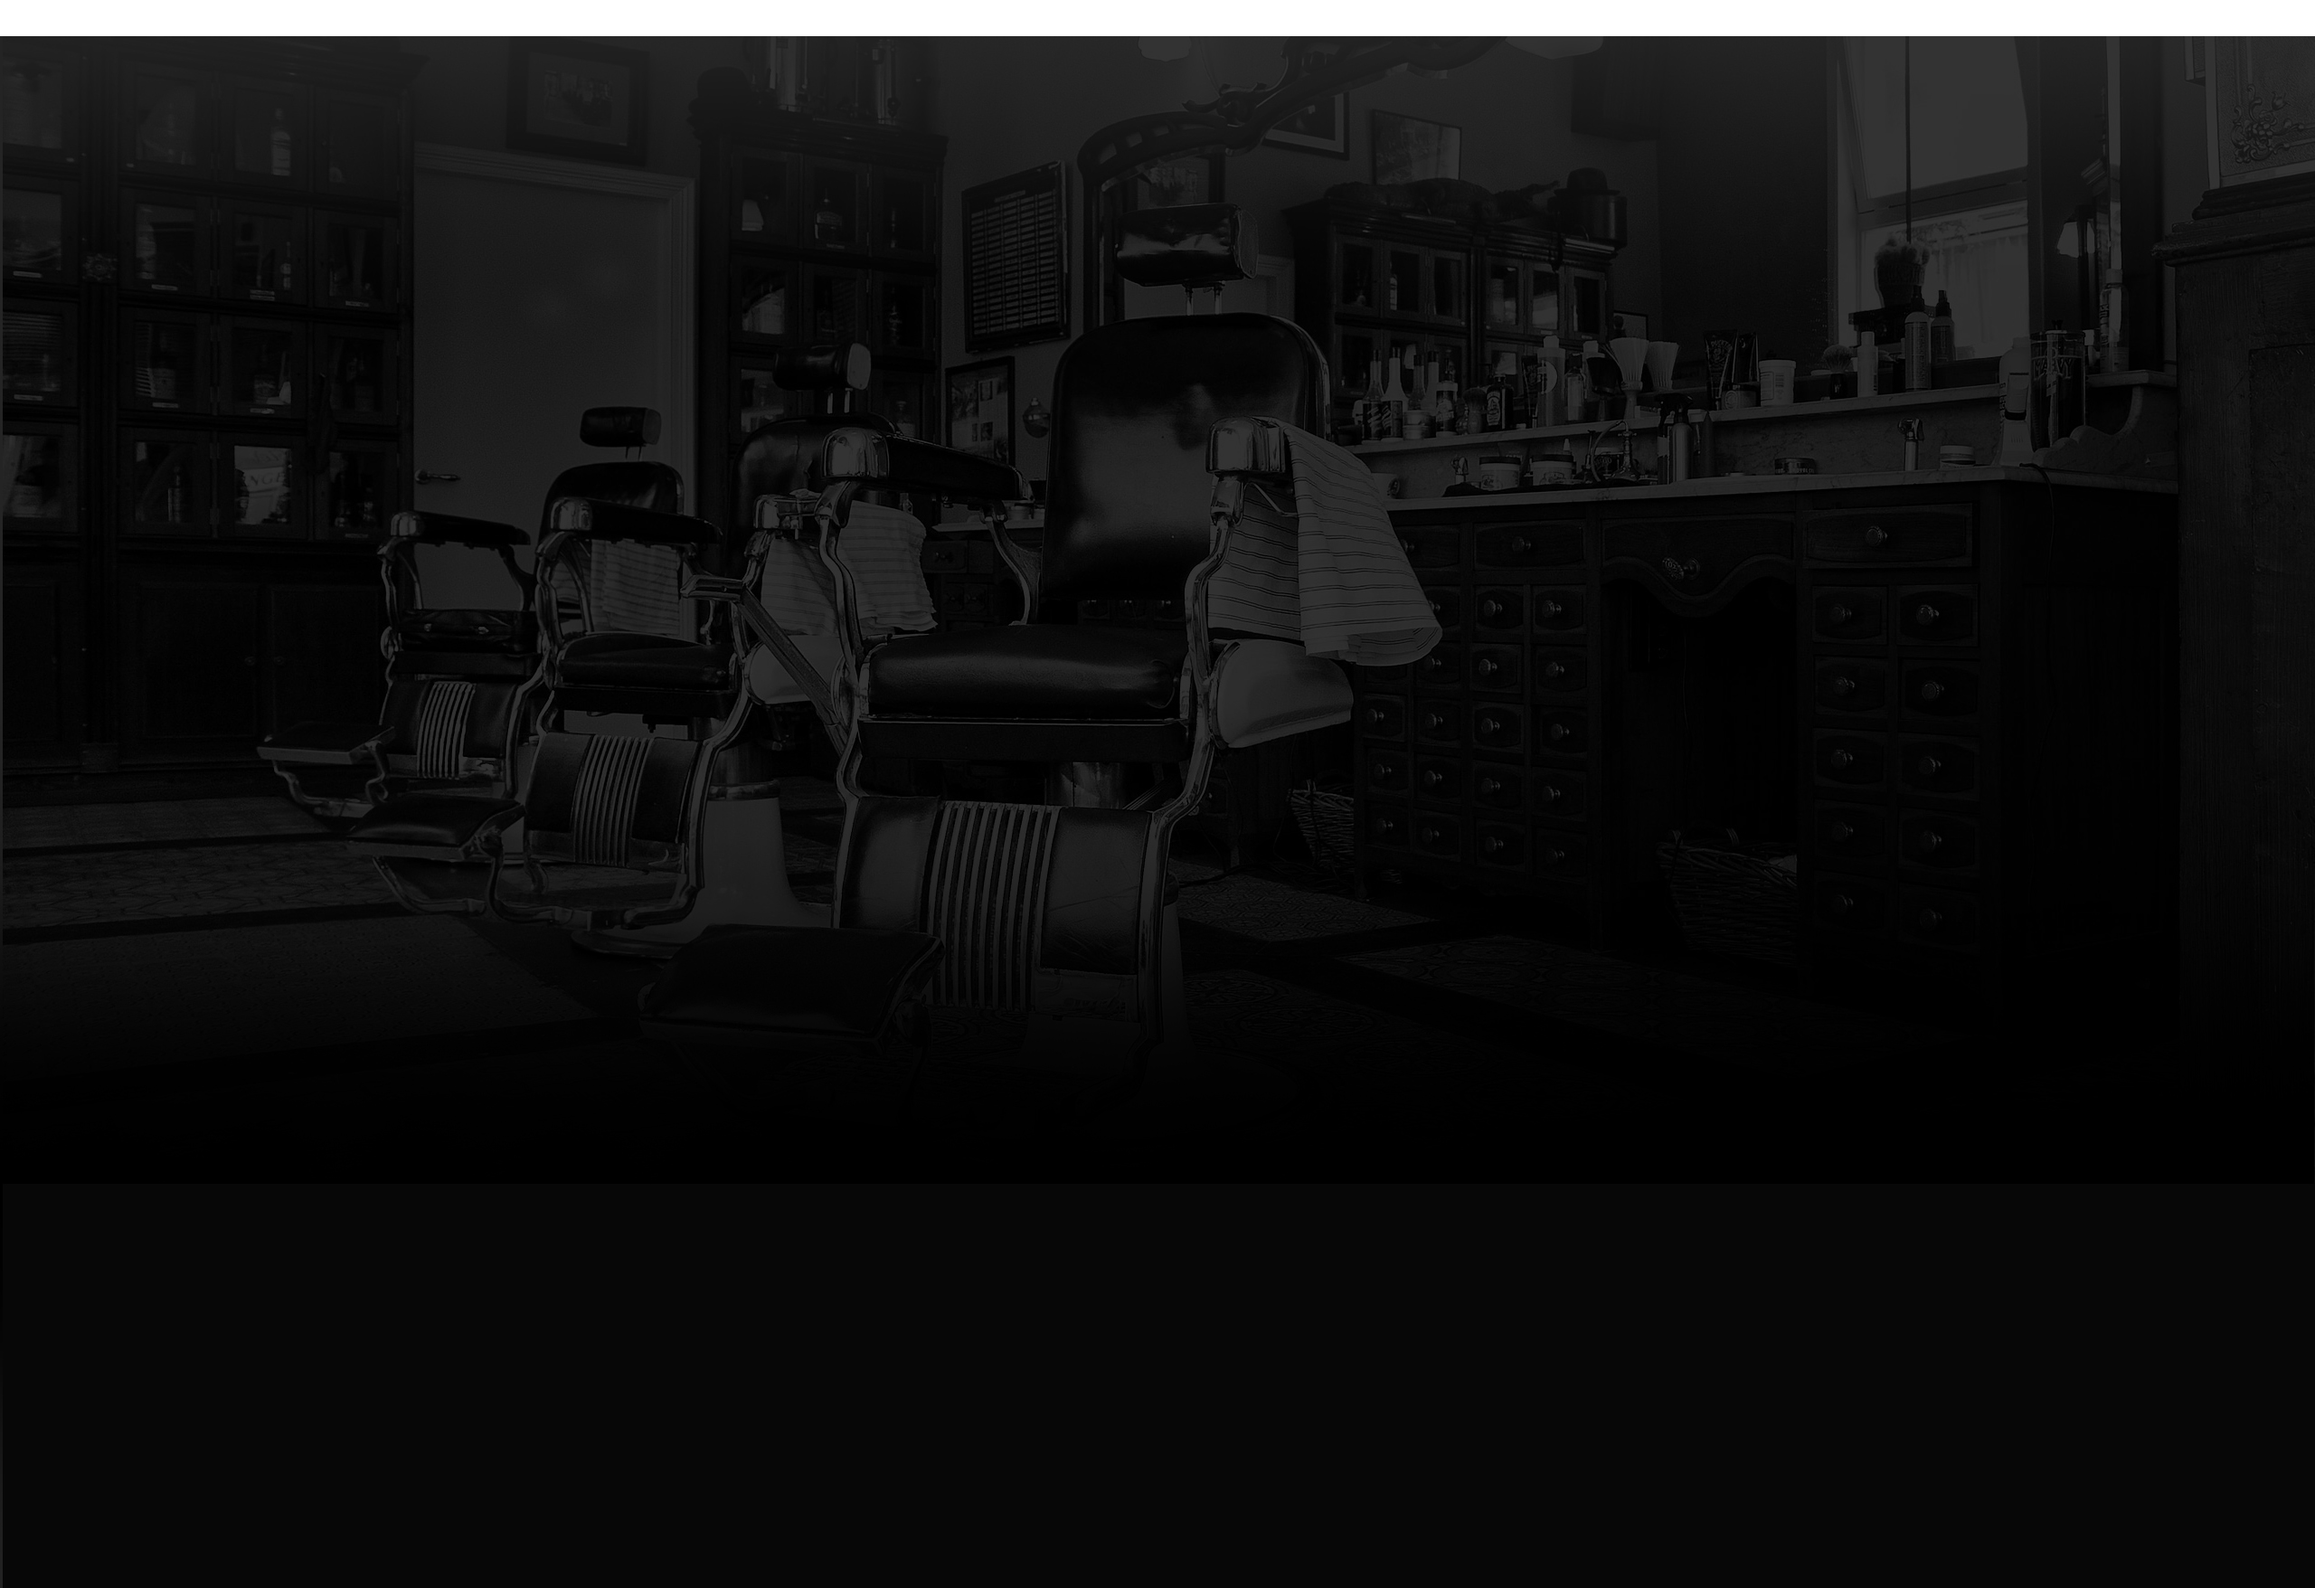
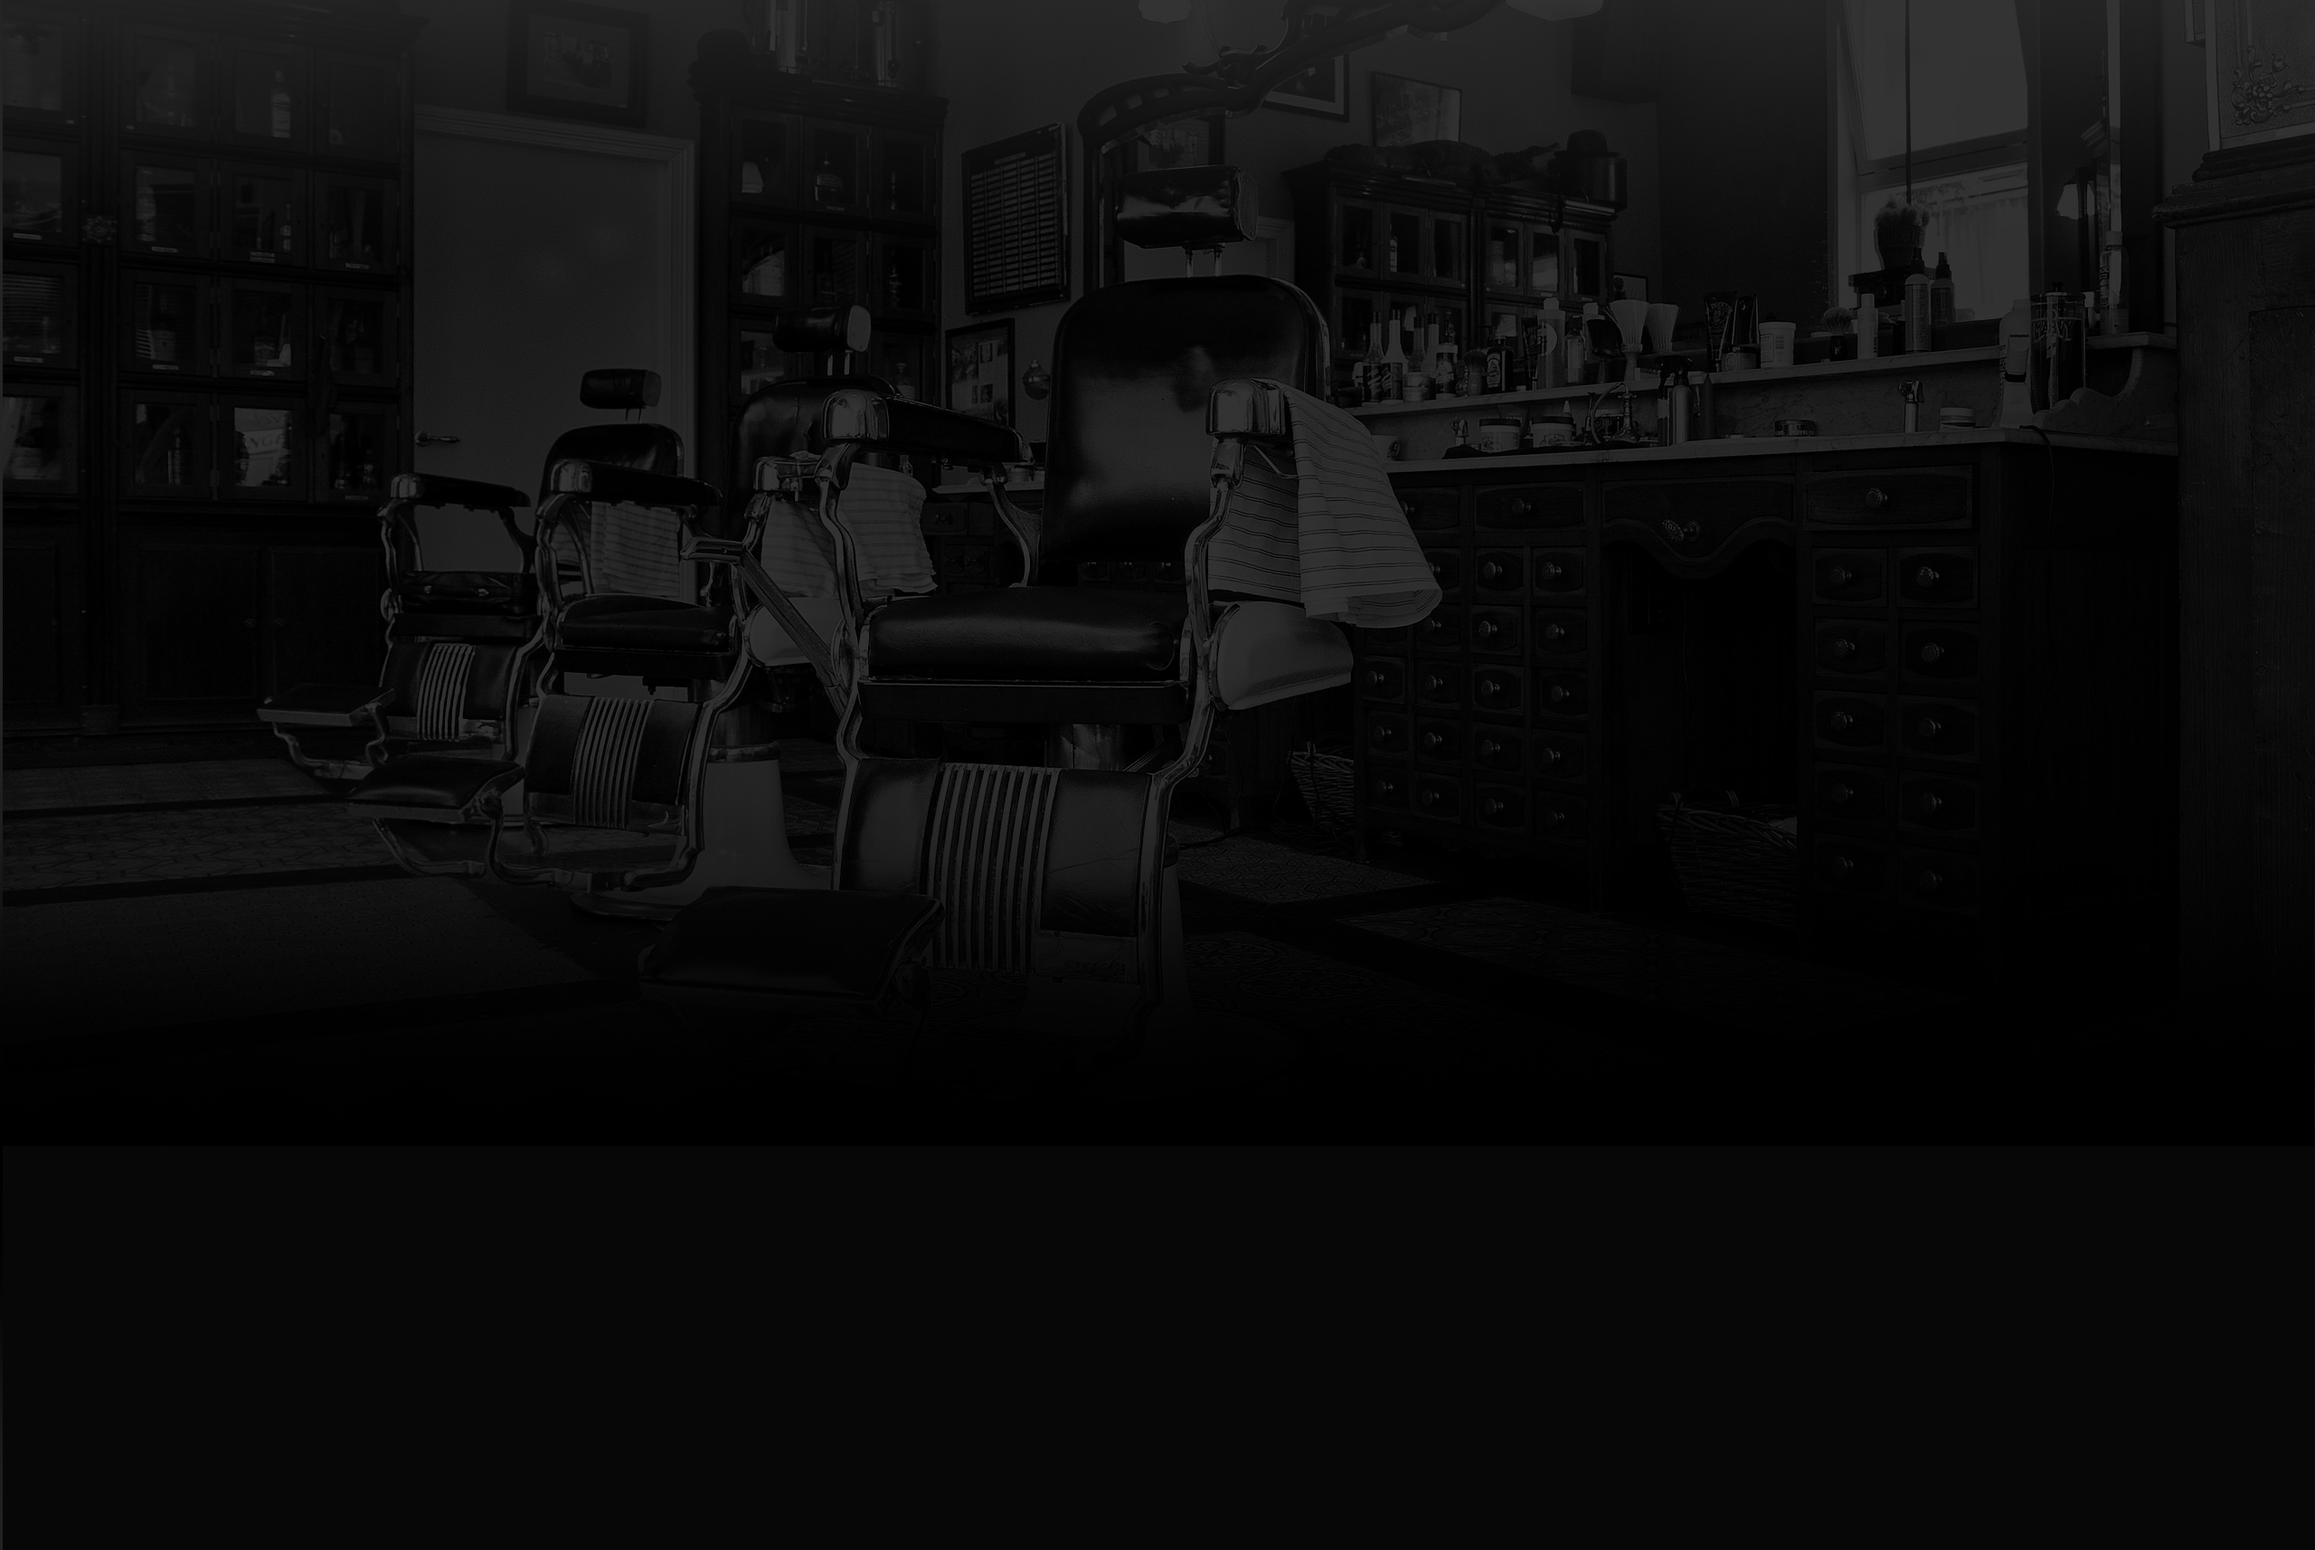
Шапка и логотип + враппер

diff --git a/css/style.css b/css/style.css
@@ -1,19 +1,18 @@
 body{
     width: 100%;
-    height: 1000px;
     text-align: center;
     margin: 0;
-    background-image: url("../img/123.jpg");
-    background-repeat: no-repeat;
-    background-size: 100%;
-    background-position: 0 -10px;
+   
     
 }
 main{
     display: block;
     position:  relative;
     width: 100%;
-    height: 100%;
+    background-image: url("../img/123.jpg");
+    background-repeat: no-repeat;
+    background-size: 100%;
+    background-position: 0 -10px;
     
 }
 .page-header{ /* Стили для хэдера*/
@@ -23,29 +22,43 @@ main{
     color: white;
     height: 75px;
 }
+.header-wrapper{
+    max-width: 940px;
+    height: auto;
+    padding-left: 10px;
+    padding-right: 10px;
+    margin-left: auto;
+    margin-right: auto;
+}
+.main-wrapper{
+    max-width: 940px;
+    height: auto;
+    padding-left: 10px;
+    padding-right: 10px;
+    margin-left: auto;
+    margin-right: auto;
+}
 .menu{
-    display: inline-block;
     position: relative;
+    float: left;
     text-align: center;
     vertical-align: middle;
     top: 10px;
-    right: 200px;
 }
-li{
+.menu-li{
     display: inline-block;
     margin-right: 40px;
     text-decoration: none;
     font-size: 16px;
     font-family: bold;
 }
-.login{
-    display: inline-block;
+.login-button{
     position: relative;
+    float: right;
     text-align: center;
-    top: 10px;
-    left: 220px;
+    top: 20px;
     width: 45px;
-    height: 16px;
+    height: 20px;
 }
 .menu-links{
     color: white;
@@ -58,5 +71,18 @@ li{
     bottom: -380px;
     background-color:  grey;
     width: 100%;
-    height: 200px;
+   
+}
+.main-field{
+    height: 2000px;
+
+}
+.logo-image{
+    display: block;
+    position: relative;
+    width: 371px;
+    height: 155px;
+    top: 60px;
+    left: 30%;
+
 }

diff --git a/index.html b/index.html
@@ -8,26 +8,31 @@
   <body>
     
     <header class="page-header">
-      <nav class="main-menu">
-        <ul class="menu">
-          <li><a class="menu-links" href="#">ИНФОРМАЦИЯ</a></li>
-          <li><a class="menu-links" href="#">НОВОСТИ</a></li>
-          <li><a class="menu-links" href="#">ПРАЙС-ЛИСТ</a></li>
-          <li><a class="menu-links" href="#">МАГАЗИН</a></li>
-          <li><a class="menu-links" href="#">КОНТАКТЫ</a></li>
-        </ul>
-        <div class="login">
-          <!-- <img> ДОБАВИТЬ СЮДА ИКОНКУ ВХОДА  -->
-          <a href="#" class="menu-links">ВХОД</a>
-        </div>
-    </nav>
+      <div class="header-wrapper">
+        <nav class="main-menu">
+          <ul class="menu">
+           <li class="menu-li"><a class="menu-links" href="#">ИНФОРМАЦИЯ</a></li>
+           <li class="menu-li"><a class="menu-links" href="#">НОВОСТИ</a></li>
+           <li class="menu-li"><a class="menu-links" href="#">ПРАЙС-ЛИСТ</a></li>
+           <li class="menu-li"><a class="menu-links" href="#">МАГАЗИН</a></li>
+           <li class="menu-li"><a class="menu-links" href="#">КОНТАКТЫ</a></li>
+         </ul>
+         <div class="login-button">
+           <!-- <img> ДОБАВИТЬ СЮДА ИКОНКУ ВХОДА  -->
+           <a href="#" class="menu-links">ВХОД</a>
+         </div>
+        </nav>
+      </div>
     </header>
     <main>
-    <div class="main-field">
-
-
+      <div class="main-wrapper">
+        
+    <section class="logo">
+        <img class="logo-image" src="img/logo.png" alt="ЛОГОТИП">
+    </section>
     </div>
     </main>
+    
     <footer class="page-footer">
 
 
